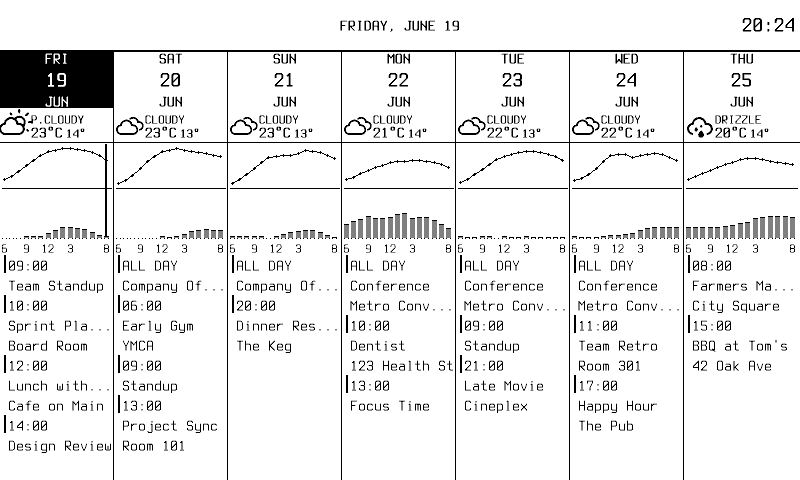
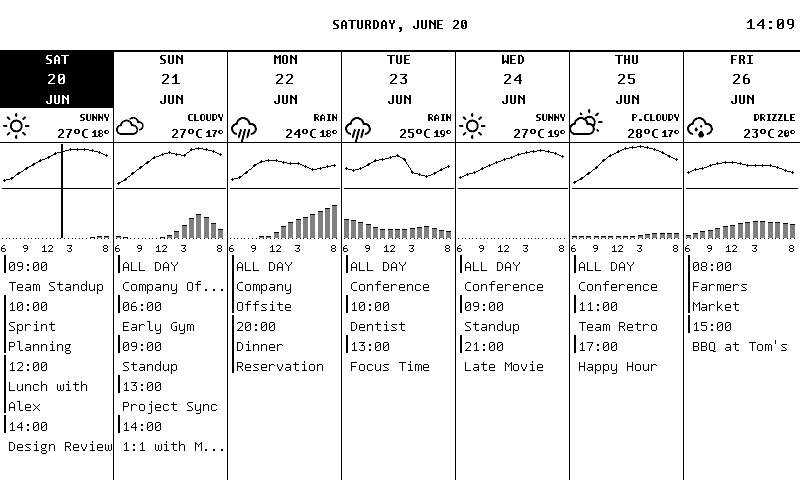
docs(weatherview): refresh screenshots for bookend layout
The weatherview and weekly READMEs showed the old left-packed weather
layout (icon + label + temps clumped on the left). Regenerate the device
screenshots from the testcal feed so the docs reflect the rebalanced
layout — icon flush-left, condition label and hi/lo temps right-aligned —
and note the arrangement in the component's "What it draws" section.

Captured with rodney against the gray4 device buffer (/frame.png); the
single-cell shot is a full-width column crop so the right-aligned temps
are not clipped.

diff --git a/internal/inkwell/widgets/weatherview/README.md b/internal/inkwell/widgets/weatherview/README.md
@@ -14,8 +14,9 @@ the condition glyph and IBM Plex Mono for text.
 
 A day cell, top to bottom:
 
-1. **Condition row** — a weather icon, an optional condition label
-   (`CLOUDY`, `DRIZZLE`, …), and the hi/lo temperatures.
+1. **Condition row** — a weather icon flush-left, with an optional condition
+   label (`CLOUDY`, `DRIZZLE`, …) and the hi/lo temperatures right-aligned to
+   the cell's right edge, so the icon and the text bookend the column.
 2. A horizontal divider (solid `PaperBlack`).
 3. **Hourly chart** — a temperature curve across the day, precipitation bars
    beneath it, and an hour axis (`6 9 12 3 8`). The current hour is